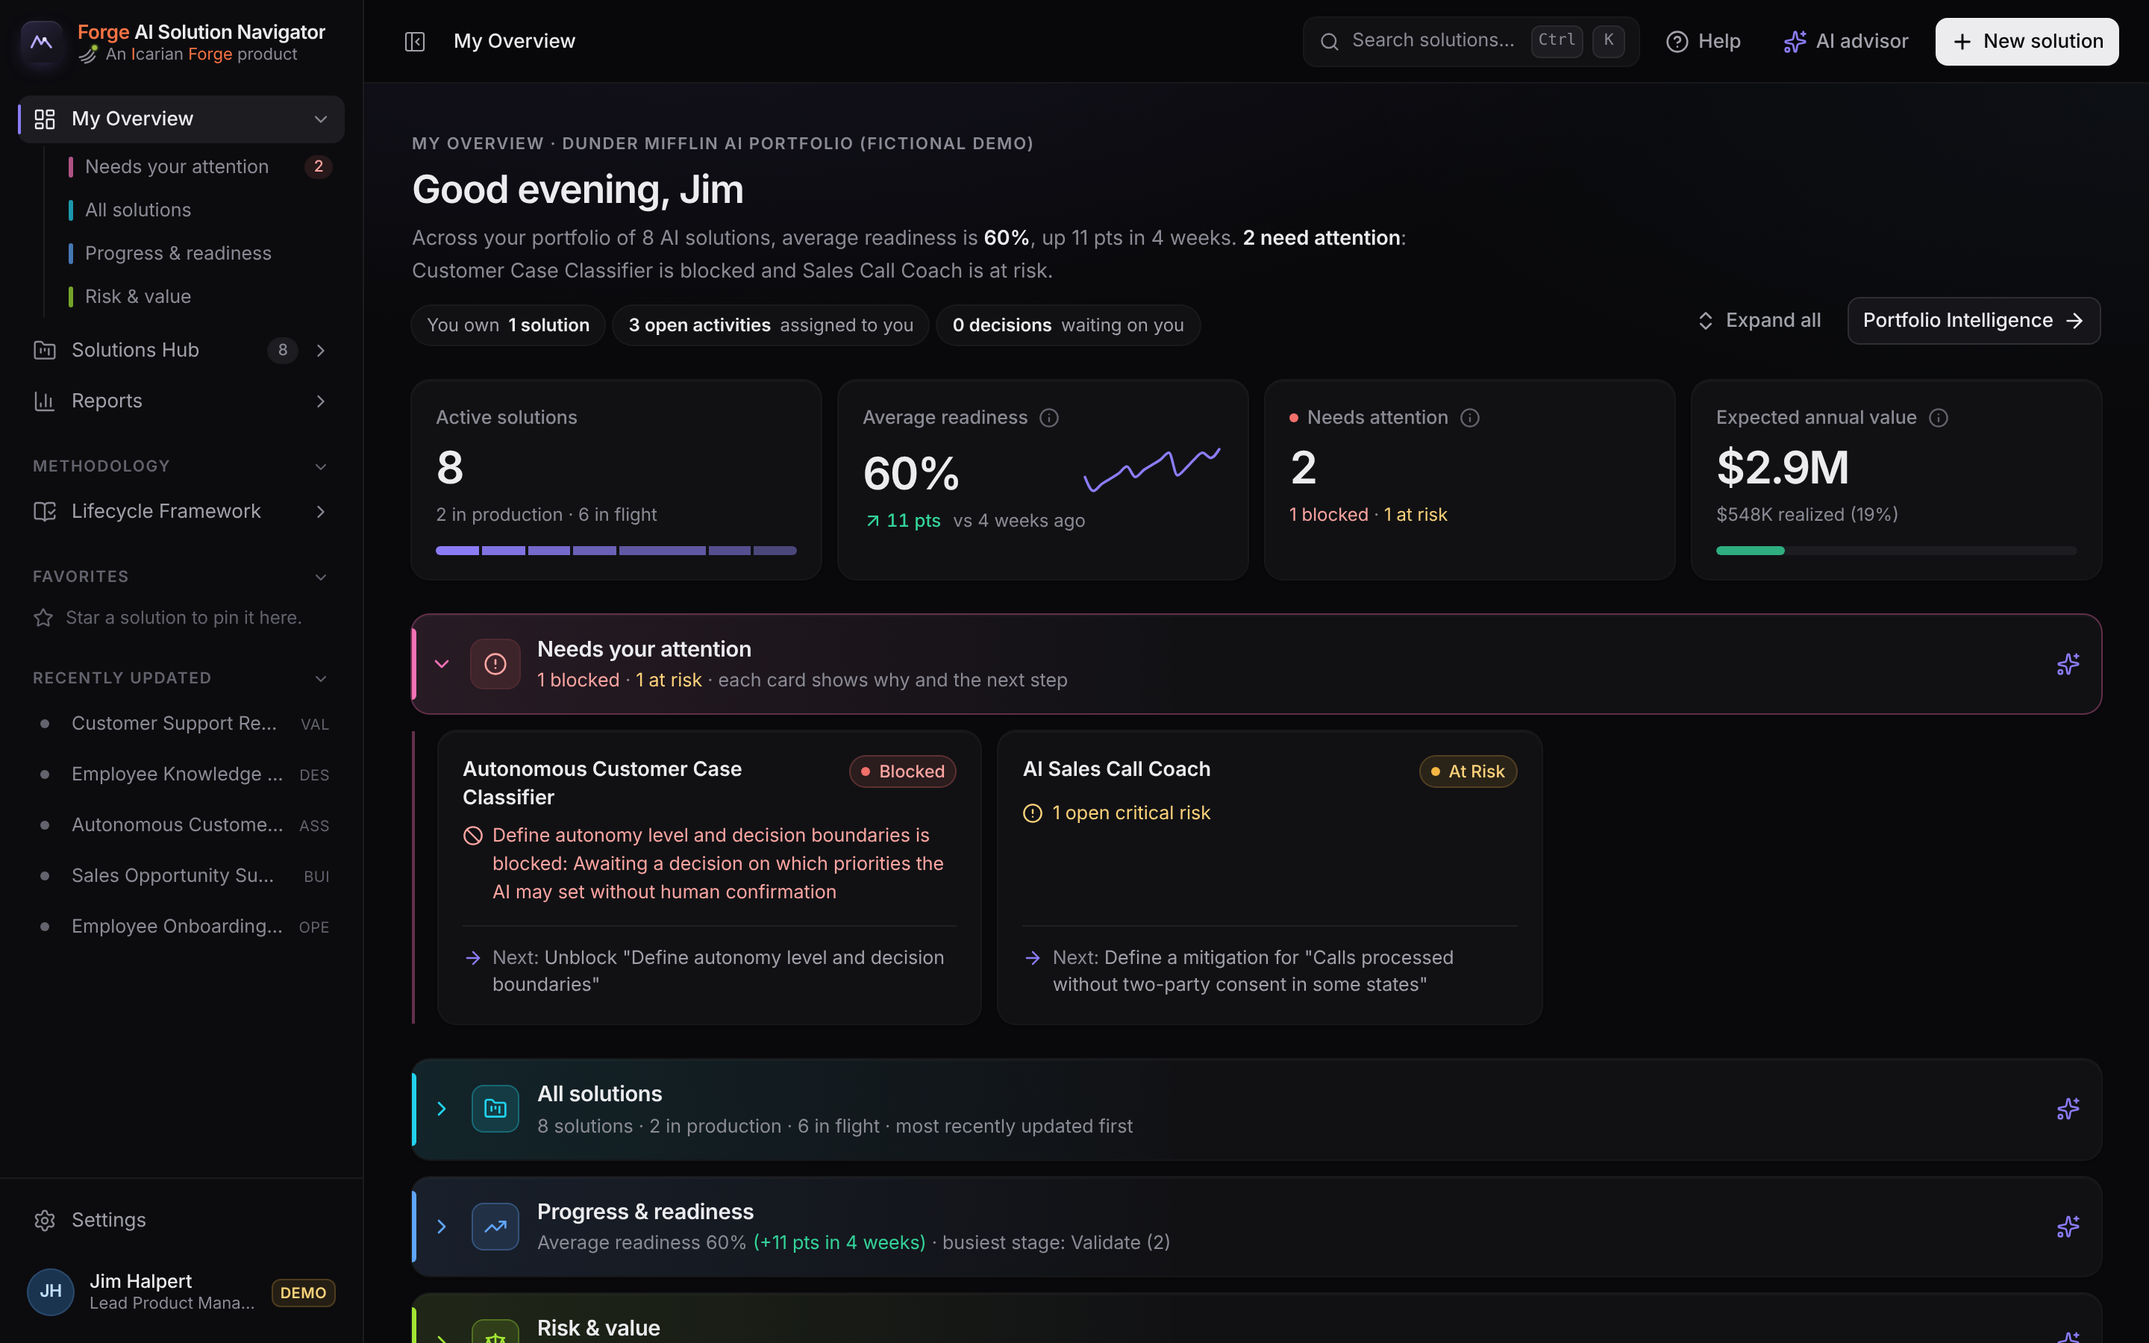
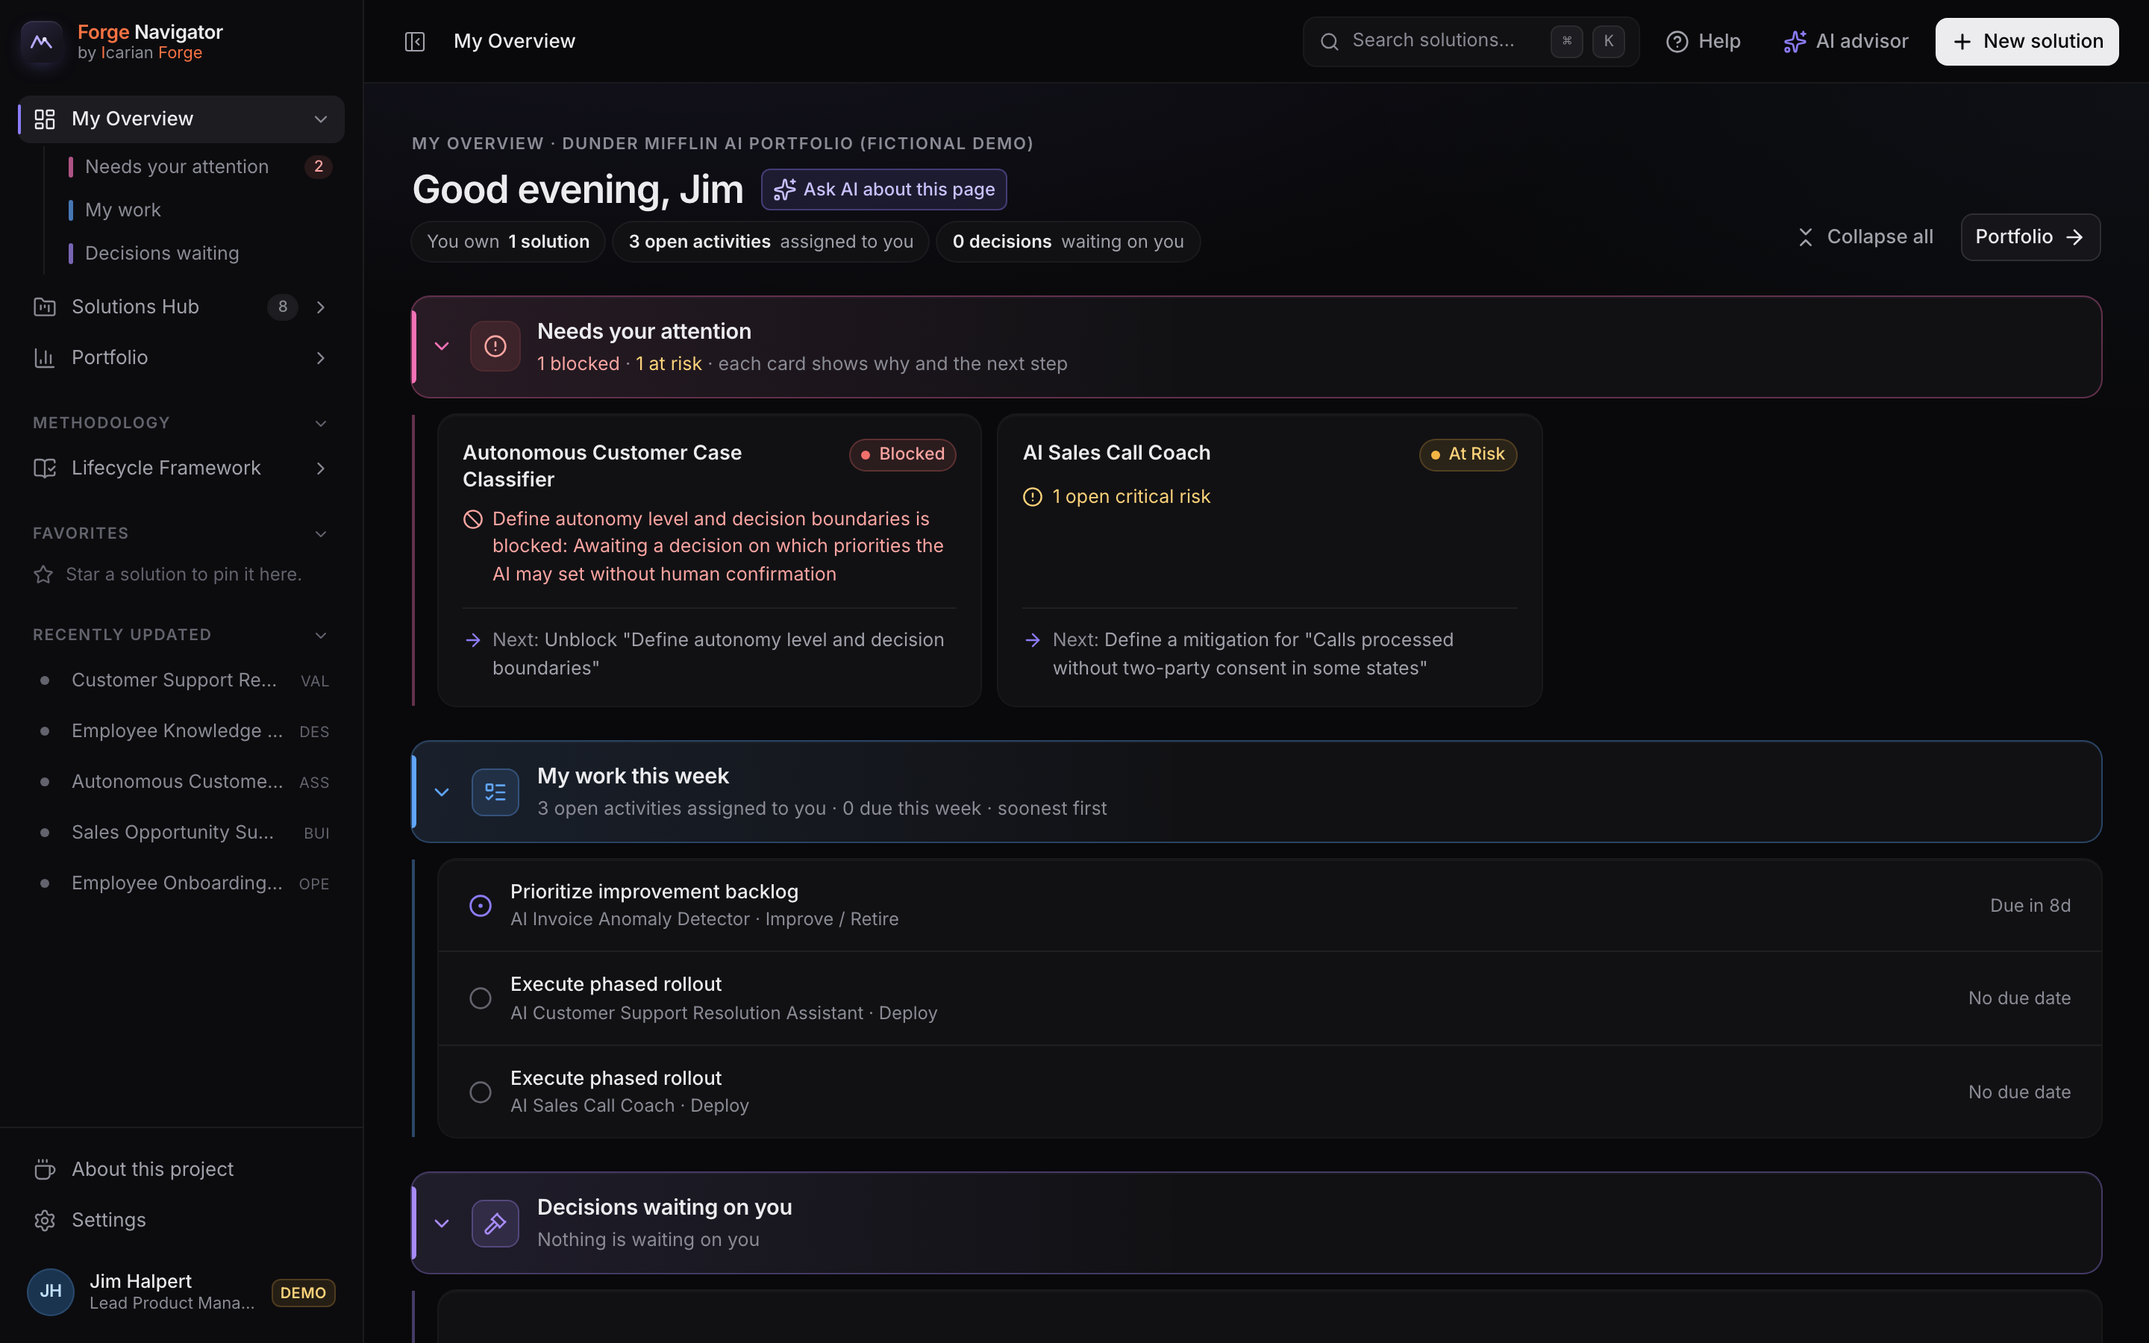
Refresh the README screenshots and docs for 2.0
Retakes the three README screenshots from the current app (1440 by 900 at
2x, dark, no tour), and updates their descriptions. The architecture doc
moves to v2.0 and covers second-person evidence approval, the readiness
credit table, measured thresholds at gates, five tabs, the store rules, the
end-to-end test, and deploys on every merge. The case study moves to v1.5
with a section on what changed in 2.0 and why.

diff --git a/docs/architecture_v2.0_10.29.2026.md b/docs/architecture_v2.0_10.29.2026.md
@@ -1,6 +1,6 @@
 # Architecture
 
-**v1.1 · 10.13.2026** · Forge AI Solution Navigator 1.3
+**v2.0 · 10.29.2026** · Forge Navigator 2.0
 
 ## Goals and constraints
 
@@ -9,6 +9,7 @@
 | A public demo anyone can use without an account | Each visitor's data stays in their own browser. No accounts, no shared database. |
 | The methodology must be adaptable to any company | Stages, gates, activities, evidence, roles, and weights live in one configuration file. |
 | A person, never the system, makes every decision | Gate decisions are human, attributed, explained, and re-validated by the store. |
+| Nobody signs off their own work | Evidence is approved by a teammate who isn't its owner, and the store refuses every other route to Approved. |
 | The AI advises; it never approves | The advisor is read-only, has a free deterministic fallback, and sits behind spend and rate limits. |
 | $0 to run by default | Static hosting on Cloudflare, with the live Claude advisor optional and capped. |
 
@@ -37,7 +38,7 @@ Dependencies point one way: **features → domain → data → AI integration.**
 | Layer | Folder | Responsibility | Depends on React? |
 |---|---|---|---|
 | Methodology | `src/config/` | `lifecycle.json` plus typed accessors and the glossary | No |
-| Domain | `src/domain/` | Readiness, gate evaluation, gatekeepers, health, next best action, plan instantiation, reports, validation | No |
+| Domain | `src/domain/` | Readiness, gate evaluation, gatekeepers, evidence approval, health, next best action, plan instantiation, reports, and the store rules in `validation.ts` | No |
 | Data | `src/data/` | The store: every action, the audit trail, persistence, seed data, derived hooks | Hooks only |
 | AI | `src/ai/`, `server/` | The advisor contract, context builder, deterministic advisor, client, and the server integration | No |
 | UI | `src/components/`, `src/features/` | Design system and screens | Yes |
@@ -49,7 +50,7 @@ Because the domain is plain TypeScript, the core rules are tested without render
 `src/config/lifecycle.json` (v1.1.0) defines:
 
 - **8 stages** in 3 phases (Plan, Deliver, Run), each with a purpose, typical duration, and expected readiness.
-- **7 gates**, one at the end of every stage except the last, each with explicit criteria and its **gatekeeper roles**.
+- **7 gates**, one at the end of every stage except the last, each with explicit criteria and its **gatekeeper roles**. A criterion is a documented field, an assigned role, defined metrics, a risk rule, or a measured result against a threshold (`metric_threshold`).
 - **60 activity templates** and **41 evidence templates**, each tagged with the risk tiers that require or block on it.
 - **3 risk tiers** (low, moderate, high), **15 roles**, and **7 readiness dimensions**: Business Value, Product Readiness, Technical Readiness, AI Evaluation, Risk & Governance, Operational Readiness, and Adoption Readiness.
 
@@ -71,14 +72,50 @@ sequenceDiagram
   S-->>M: Decision logged, or the reason it was refused
 ```
 
-- **Evaluation:** a gate passes only when every blocking activity for the solution's risk tier is complete *with approved evidence*, and every explicit criterion (fields, roles, metrics, risk rules) holds.
+- **Evaluation:** a gate passes only when every blocking activity for the solution's risk tier is complete *with approved evidence*, and every explicit criterion (fields, roles, metrics, risk rules, measured thresholds) holds.
+- **Measured thresholds:** a `metric_threshold` criterion compares a metric's measured value with the target the team set beforehand, and applies only to the risk tiers it names. The Feasibility & Risk Gate uses one: for Moderate and High risk, the spike's measured result on sample data must meet its threshold.
+- **Blocked gates put fixing first:** while a gate is blocked, the review's main button is "Resolve next blocker". Opening a gate to look logs nothing; only a gatekeeper's Go, Hold, or Stop is recorded, and gate pass rate counts those decisions alone.
 - **Decision rights:** only a team member holding one of the gate's gatekeeper roles may decide, and never the solution owner. See [ADR 0005](adr/0005-gatekeepers-go-hold-stop_v1.0_10.11.2026.md).
 - **Lifecycle state:** `active`, `on_hold`, or `stopped`, kept separate from health so a deliberate pause never reads as a problem. Stopped solutions leave portfolio totals; held ones leave Needs attention.
 - **Audit:** every change records who, what, from, and to.
 
+## Evidence and readiness
+
+Evidence is the proof that work met the standard, so the person who produced it never signs it off. See [ADR 0006](adr/0006-evidence-approved-by-a-second-person_v1.0_10.29.2026.md).
+
+- **Moves:** anyone on the team moves evidence from Missing to Draft to In Review, and back to Draft (`src/domain/evidence.ts`).
+- **Approval:** only from In Review, by a team member who isn't the owner, with a one-line note. The approval records who, when, and the note, and history shows whose evidence it was and which activity it backs.
+- **Readiness credit:** readiness tells the same story as the gate, so finished work counts in full only when its evidence is approved.
+
+| Evidence on a completed activity | Credit |
+|---|---|
+| Approved, or not required | 1 |
+| In review | 0.7 |
+| Draft | 0.4 |
+| Missing, on a gate-blocking activity | 0 |
+| Missing, on any other activity | 0.3 |
+
+Work still in progress earns a small bonus once its evidence is underway, and approving early never lowers the score. Dimension scores roll up into overall readiness by the weights in Settings.
+
+## Store rules
+
+Every activity, evidence, and solution change passes through `src/domain/validation.ts` before the store writes it, so a rule holds no matter which screen made the change:
+
+- required activities can't be marked Not Applicable;
+- evidence can't be approved without an approver, by its owner, or through a plain edit;
+- stage and lifecycle state change only through Go, Hold, Stop, or Resume.
+
+Each refusal comes back as `{ ok: false, reason }`, and the screen shows the reason as a toast. The UI only offers allowed moves, so the toasts are a safety net.
+
+## Screens
+
+- **My Overview** is personal: what needs your attention, your work this week, and decisions waiting on you. **Portfolio** (at `/reports`, with `/portfolio` leading there) is the whole portfolio.
+- **A solution's workspace** has five tabs: Overview, Work, Risks & decisions, Metrics, and Team & history (`src/features/workspace/routes.ts`). Evidence lives inside Work, next to the activity it proves. Stages open from the lifecycle bar in a side panel (a bottom sheet on phones). Old tab links still land in the right place.
+- **One AI entry point per page:** an "Ask AI about this page" button beside each page title.
+
 ## Persistence
 
-The store persists through a `StateStorage` adapter (`src/data/storage.ts`) to `localStorage`, versioned with a reseed on any version mismatch so old demo data never breaks a new release. Saved data is treated as untrusted input: on load, `src/data/persistence.ts` checks its shape (every collection, record ids, known stages, settings) and falls back to a fresh demo if anything is malformed. Swapping in a server database is a one-file change. See [ADR 0002](adr/0002-browser-local-persistence_v1.0_10.11.2026.md).
+The store persists through a `StateStorage` adapter (`src/data/storage.ts`) to `localStorage`, versioned (currently 4) with a reseed on any version mismatch so old demo data never breaks a new release. Saved data is treated as untrusted input: on load, `src/data/persistence.ts` checks its shape (every collection, record ids, known stages, settings) and falls back to a fresh demo if anything is malformed. Swapping in a server database is a one-file change. See [ADR 0002](adr/0002-browser-local-persistence_v1.0_10.11.2026.md).
 
 ## The AI advisor
 
@@ -95,8 +132,9 @@ See [SECURITY.md](../SECURITY.md). In short: no secrets in the repository, serve
 
 ## Testing and delivery
 
-- **45 Vitest tests:** domain rules, gatekeepers and decisions, advisor areas, the sidebar memory, saved-data validation, tour placement, and server guardrails.
-- **CI** ([`ci.yml`](../.github/workflows/ci.yml)): every pull request is tested and built; every merge to `main` deploys and then confirms the live site serves the new build.
+- **84 Vitest tests:** domain rules, the readiness, next-action and Portfolio calculators (checked against a hand-worked fixture portfolio), the store rules, gatekeepers and decisions, advisor areas, the sidebar memory, saved-data validation, tour placement, and server guardrails.
+- **One Playwright test** (`e2e/demo.e2e.ts`) runs the README demo in Chromium against the production build: submit Erin's UAT Sign-off for review, approve it as Dwight, finish the activity, and see the gate go from 3 open to 2.
+- **CI** ([`ci.yml`](../.github/workflows/ci.yml)) has three jobs. "Test and build" and "End-to-end" run on every pull request. On every merge to `main`, the deploy job waits for both, deploys to Cloudflare with the repository's `CLOUDFLARE_API_TOKEN` and `CLOUDFLARE_ACCOUNT_ID` secrets, and then confirms the live site serves the new build.
 - **Dependabot** keeps npm packages and GitHub Actions current.
 
 ## Known trade-offs

diff --git a/docs/case-study_v1.5_10.29.2026.md b/docs/case-study_v1.5_10.29.2026.md
@@ -1,6 +1,6 @@
 # The story behind the Navigator
 
-**v1.4 · 10.11.2026** · Dan West · [Try the live demo](https://navigator.icarianforge.com)
+**v1.5 · 10.29.2026** · Dan West · [Try the live demo](https://navigator.icarianforge.com)
 
 ---
 
@@ -34,7 +34,7 @@ I didn't want to build something that only works for one team's way of doing thi
 
 ### "Done" should mean done
 
-I've seen projects get waved through because someone said the work was done, while the proof was still sitting in an email somewhere. So here, you can't move a project to the next stage just by ticking boxes. The work has to be finished and the proof behind it has to be signed off. And if something's holding a project up, the app tells you exactly what it is and who can fix it. No guessing, no chasing people down.
+I've seen projects get waved through because someone said the work was done, while the proof was still sitting in an email somewhere. So here, you can't move a project to the next stage just by ticking boxes. The work has to be finished and the proof behind it has to be signed off by someone other than the person who produced it. And if something's holding a project up, the app tells you exactly what it is and who can fix it. No guessing, no chasing people down.
 
 ### The right person decides, and "no" is allowed
 
@@ -55,6 +55,25 @@ Each project gets a readiness score, but it never shows up alone. It always come
 There's a built-in AI advisor you can ask about any part of a project. It can explain and suggest, but it can't approve anything or move a project forward. Those calls stay with people.
 
 It also works for free out of the box, and only uses Claude if you choose to connect it.
+
+## What changed in 2.0, and why
+
+A few weeks after launch I sat down and reviewed the whole thing the way a skeptical design reviewer would. Two findings stung, because they went against the very things I said the Navigator stands for.
+
+**People could sign off their own proof.** The app said "done should mean done," but nothing stopped the person who wrote a piece of evidence from approving it themselves. A few entries in the demo's history showed exactly that. That's the shortcut the whole tool exists to prevent.
+
+**The score and the gate told different stories.** A finished activity earned most of its readiness points even when its proof was missing. So a project could look nearly ready on its score while its gate was firmly shut. If those two disagree, people stop trusting both.
+
+Here's what I changed:
+
+- **Someone else approves the evidence.** Proof moves from draft to review, and then a teammate who isn't its owner approves it with a one-line note. The app remembers who and when, and won't accept any other route.
+- **The score follows the gate.** Finished work counts in full only once its proof is approved. Proof in review counts for most of it, a draft for less, and missing proof on gate work counts for nothing.
+- **A blocked gate says what to fix first.** When a gate is blocked, the main button is "Resolve next blocker", and just opening a gate to look no longer counts as a failed attempt.
+- **Riskier projects prove the idea works before going further.** For moderate and high risk, the feasibility gate now wants a real result on sample data, measured against a bar the team set beforehand.
+- **Less to get through.** Starting a project takes a name, a problem, and an owner. The workspace went from seven tabs to five, with the evidence sitting right next to the work it proves. My Overview is now about you, and Portfolio covers everything else.
+- **The rules live in one place.** The app itself checks every change, so it doesn't matter which screen made it. A test also walks through the whole demo in a real browser before anything goes live.
+
+None of this added steps for a team that was already doing the work properly. It just makes the shortcuts harder to take, and the score easier to believe.
 
 ## What I left out on purpose
 

diff --git a/README.md b/README.md
@@ -16,8 +16,8 @@
 
 <p align="center">
   <a href="https://navigator.icarianforge.com"><b>Try the live demo</b></a> ·
-  <a href="docs/case-study_v1.4_10.11.2026.md">The story behind it</a> ·
-  <a href="docs/architecture_v1.1_10.13.2026.md">Architecture</a> ·
+  <a href="docs/case-study_v1.5_10.29.2026.md">The story behind it</a> ·
+  <a href="docs/architecture_v2.0_10.29.2026.md">Architecture</a> ·
   <a href="docs/adr">Decision records</a> ·
   <a href="CHANGELOG.md">Changelog</a>
 </p>
@@ -35,11 +35,11 @@
 > Built by **[Dan West](https://www.icarianforge.com)**, an AI strategy and operations leader with nearly 20 years in IT. I designed it and directed Claude Code as the engineering team, the same way I'd lead a product team. All people, companies, and figures in the demo are fictional (Dunder Mifflin, with The Office cast).
 
 <p>
-  <img src="docs/screenshots/dashboard.png" alt="My Overview: a personal briefing, four headline numbers, and the projects that need attention" width="100%">
+  <img src="docs/screenshots/dashboard.png" alt="My Overview: what needs your attention, your work this week, and the decisions waiting on you" width="100%">
 </p>
 <p>
-  <img src="docs/screenshots/workspace.png" width="49%" alt="One project's workspace: stage, readiness, and the next best action with its owner">
-  <img src="docs/screenshots/gate-blocked.png" width="49%" alt="A gate review: exactly what is blocking, who owns it, and a link to fix it">
+  <img src="docs/screenshots/workspace.png" width="49%" alt="One project's workspace: stage, readiness, the next best action with its owner, and the lifecycle bar above five tabs">
+  <img src="docs/screenshots/gate-blocked.png" width="49%" alt="A blocked gate review: exactly what is blocking, who owns it, and Resolve next blocker to fix the first one">
 </p>
 
 ## Highlights
@@ -116,7 +116,7 @@ flowchart LR
   Guard -- "within limits" --> Claude["Claude API<br/>structured output"]
 ```
 
-Layers flow one way: UI → domain → data → AI integration. The domain is pure TypeScript with no React, so it is tested directly. Full detail in **[docs/architecture](docs/architecture_v1.1_10.13.2026.md)**.
+Layers flow one way: UI → domain → data → AI integration. The domain is pure TypeScript with no React, so it is tested directly. Full detail in **[docs/architecture](docs/architecture_v2.0_10.29.2026.md)**.
 </details>
 
 <details>

diff --git a/CHANGELOG.md b/CHANGELOG.md
@@ -4,6 +4,12 @@ All notable changes to Forge Navigator. The format follows [Keep a Changelog](ht
 
 ## [Unreleased]
 
+### Changed
+- **The docs match 2.0.**
+  - The README screenshots show the current app: My Overview, Customer Support's workspace, and a blocked gate review with "Resolve next blocker". Their descriptions say so too.
+  - The architecture doc is now v2.0 (`docs/architecture_v2.0_10.29.2026.md`). It covers evidence approved by a second person, the readiness credit table, measured thresholds at gates, the five tabs, the store rules, the end-to-end test, and deploys on every merge.
+  - The case study is now v1.5, with a short section on what a design review found and what changed in 2.0.
+
 ## [2.0.0] · 2026-10-29
 
 ### Added
